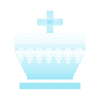
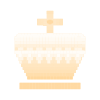
wszystko działa

diff --git a/src/pieces/Rook.js b/src/pieces/Rook.js
@@ -1,12 +1,12 @@
 import Piece from './Piece';
+import '../img/purple/rook-white.png';
 import '../img/purple/rook-black.png';
-import '../img/purple/rook-black.png';
-import '../img/orange/rook-black.png';
-import '../img/orange/rook-black.png';
+import '../img/pink/rook-white.png';
+import '../img/pink/rook-black.png';
 import '../img/blue/rook-black.png';
 import '../img/blue/rook-white.png';
 import '../img/green/rook-white.png';
-import '../img/green/rook-white.png';
+import '../img/green/rook-black.png';
 class Rook extends Piece {
   constructor(x, y, side) {
     super(x, y, side);

diff --git a/src/pieces/Knight.js b/src/pieces/Knight.js
@@ -5,8 +5,8 @@ import '../img/green/knight-white.png';
 import '../img/green/knight-black.png';
 import '../img/purple/knight-black.png';
 import '../img/purple/knight-white.png';
-import '../img/orange/knight-black.png';
-import '../img/orange/knight-white.png';
+import '../img/pink/knight-black.png';
+import '../img/pink/knight-white.png';
 class Knight extends Piece {
   constructor(x, y, side) {
     super(x, y, side);

diff --git a/src/pieces/Bishop.js b/src/pieces/Bishop.js
@@ -3,8 +3,8 @@ import '../img/blue/bishop-black.png';
 import '../img/blue/bishop-white.png';
 import '../img/green/bishop-black.png';
 import '../img/green/bishop-white.png';
-import '../img/orange/bishop-black.png';
-import '../img/orange/bishop-white.png';
+import '../img/pink/bishop-black.png';
+import '../img/pink/bishop-white.png';
 import '../img/purple/bishop-black.png';
 import '../img/purple/bishop-white.png';
 

diff --git a/src/pieces/Pawn.js b/src/pieces/Pawn.js
@@ -10,8 +10,8 @@ import '../img/purple/pawn-white.png';
 import '../img/purple/pawn-black.png';
 import '../img/green/pawn-black.png';
 import '../img/green/pawn-white.png';
-import '../img/orange/pawn-black.png';
-import '../img/orange/pawn-white.png';
+import '../img/pink/pawn-black.png';
+import '../img/pink/pawn-white.png';
 class Pawn extends Piece {
   constructor(x, y, side) {
     super(x, y, side);

diff --git a/src/pieces/Queen.js b/src/pieces/Queen.js
@@ -2,8 +2,8 @@
 import Piece from './Piece';
 import '../img/blue/queen-white.png';
 import '../img/blue/queen-black.png';
-import '../img/orange/queen-white.png';
-import '../img/orange/queen-black.png';
+import '../img/pink/queen-white.png';
+import '../img/pink/queen-black.png';
 import '../img/purple/queen-black.png';
 import '../img/purple/queen-white.png';
 import '../img/green/queen-black.png';

diff --git a/src/pieces/King.js b/src/pieces/King.js
@@ -1,8 +1,8 @@
 import Piece from './Piece';
 import '../img/blue/king-black.png';
 import '../img/blue/king-white.png';
-import '../img/orange/king-black.png';
-import '../img/orange/king-white.png';
+import '../img/pink/king-black.png';
+import '../img/pink/king-white.png';
 import '../img/purple/king-white.png';
 import '../img/purple/king-black.png';
 import '../img/green/king-black.png';
